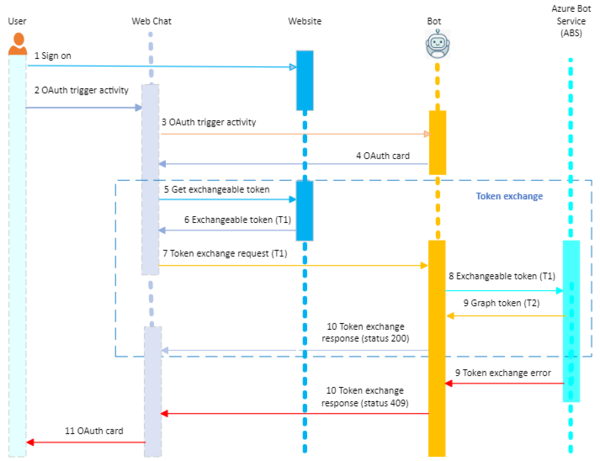
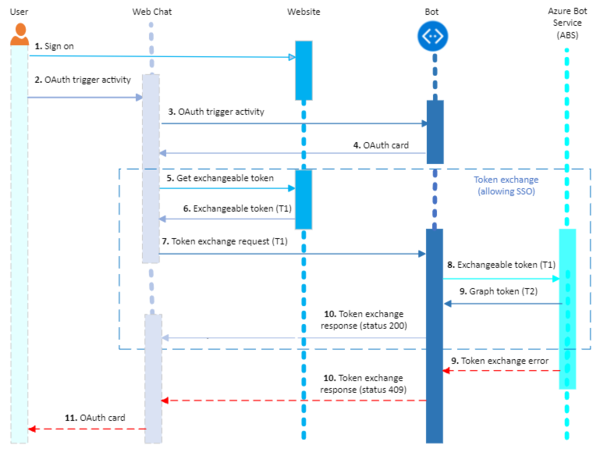
Updated diagram and content

Changed region(s): [[0.0, 0.0, 0.99, 1.0], [0.0, 0.8904, 0.27, 1.0], [0.48, 0.0, 0.54, 0.0614]]

diff --git a/articles/v4sdk/bot-builder-webchat-sso.md b/articles/v4sdk/bot-builder-webchat-sso.md
@@ -28,8 +28,8 @@ Let's analyze the flow.
 1. The Web Chat starts a conversation with the bot via an OAuth trigger activity.
 1. The bot sends back an OAuth Card to the Web Chat.
 1. The Web Chat intercepts the OAuth card before displaying it to the user and checks if it contains a `TokenExchangeResource` property.
-1. If the property exists, the client sends a `TokenExchangeInvokeRequest` to the bot. The client must have an exchangeable token for the user, which must be an Azure AD v2 token and whose audience must be the same as `TokenExchangeResource.Uri` property.  The Web Chat sends an Invoke activity to the bot with the body shown below.
-
+1. If the property exists, the Web Chat must get an exchangeable token for the user, which must be an Azure AD v2 token.
+1. The Web Chat sends an Invoke activity to the bot with the body shown below.
     ```json
     {
         "type": "Invoke",
@@ -42,7 +42,9 @@ Let's analyze the flow.
     }
     ```
 
-1. The bot processes the `TokenExchangeInvokeRequest` by issuing a request to the Azure Bot Service to obtain an exchange token.
+1. The bot processes the `TokenExchangeInvokeRequest` by issuing a request to the Azure Bot Service to obtain an exchangeable token.
+
+1. The Azure Bot Service sends the token to the bot.
 
 1. The bot returns a `TokenExchangeInvokeResponse` back to the Web Chat. The Web Chat waits till it receives the `TokenExchangeInvokeResponse`.
 
